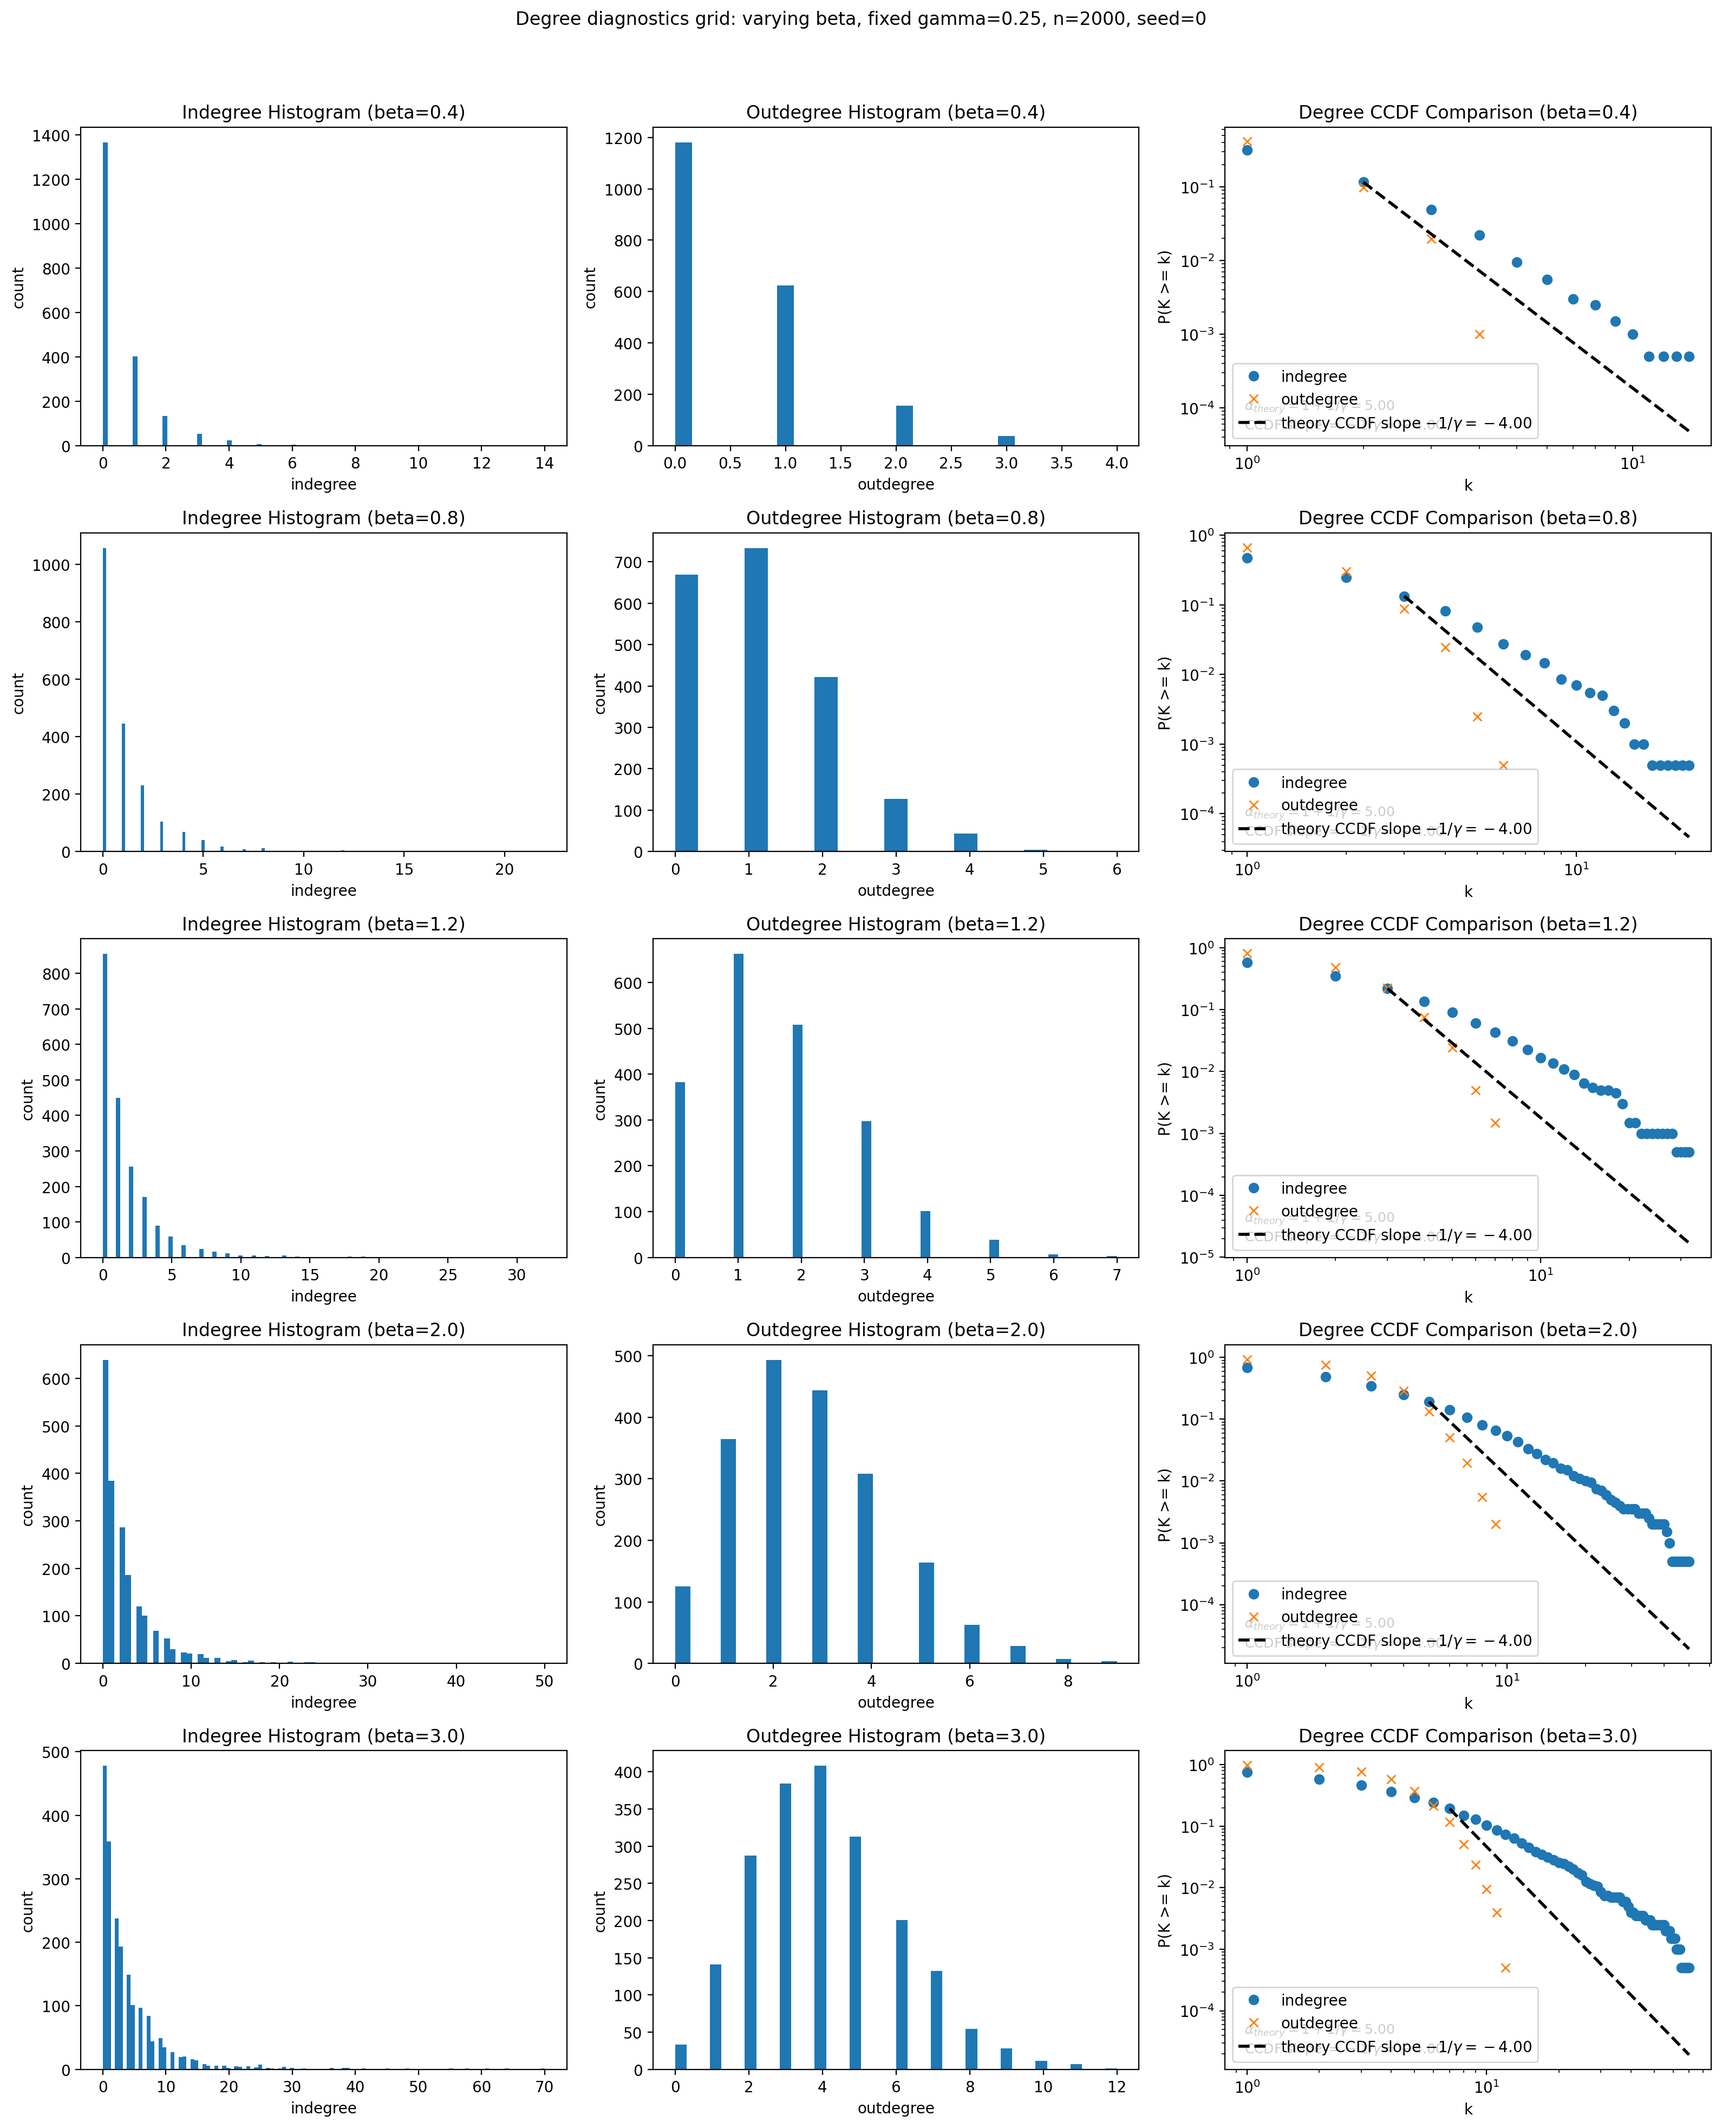
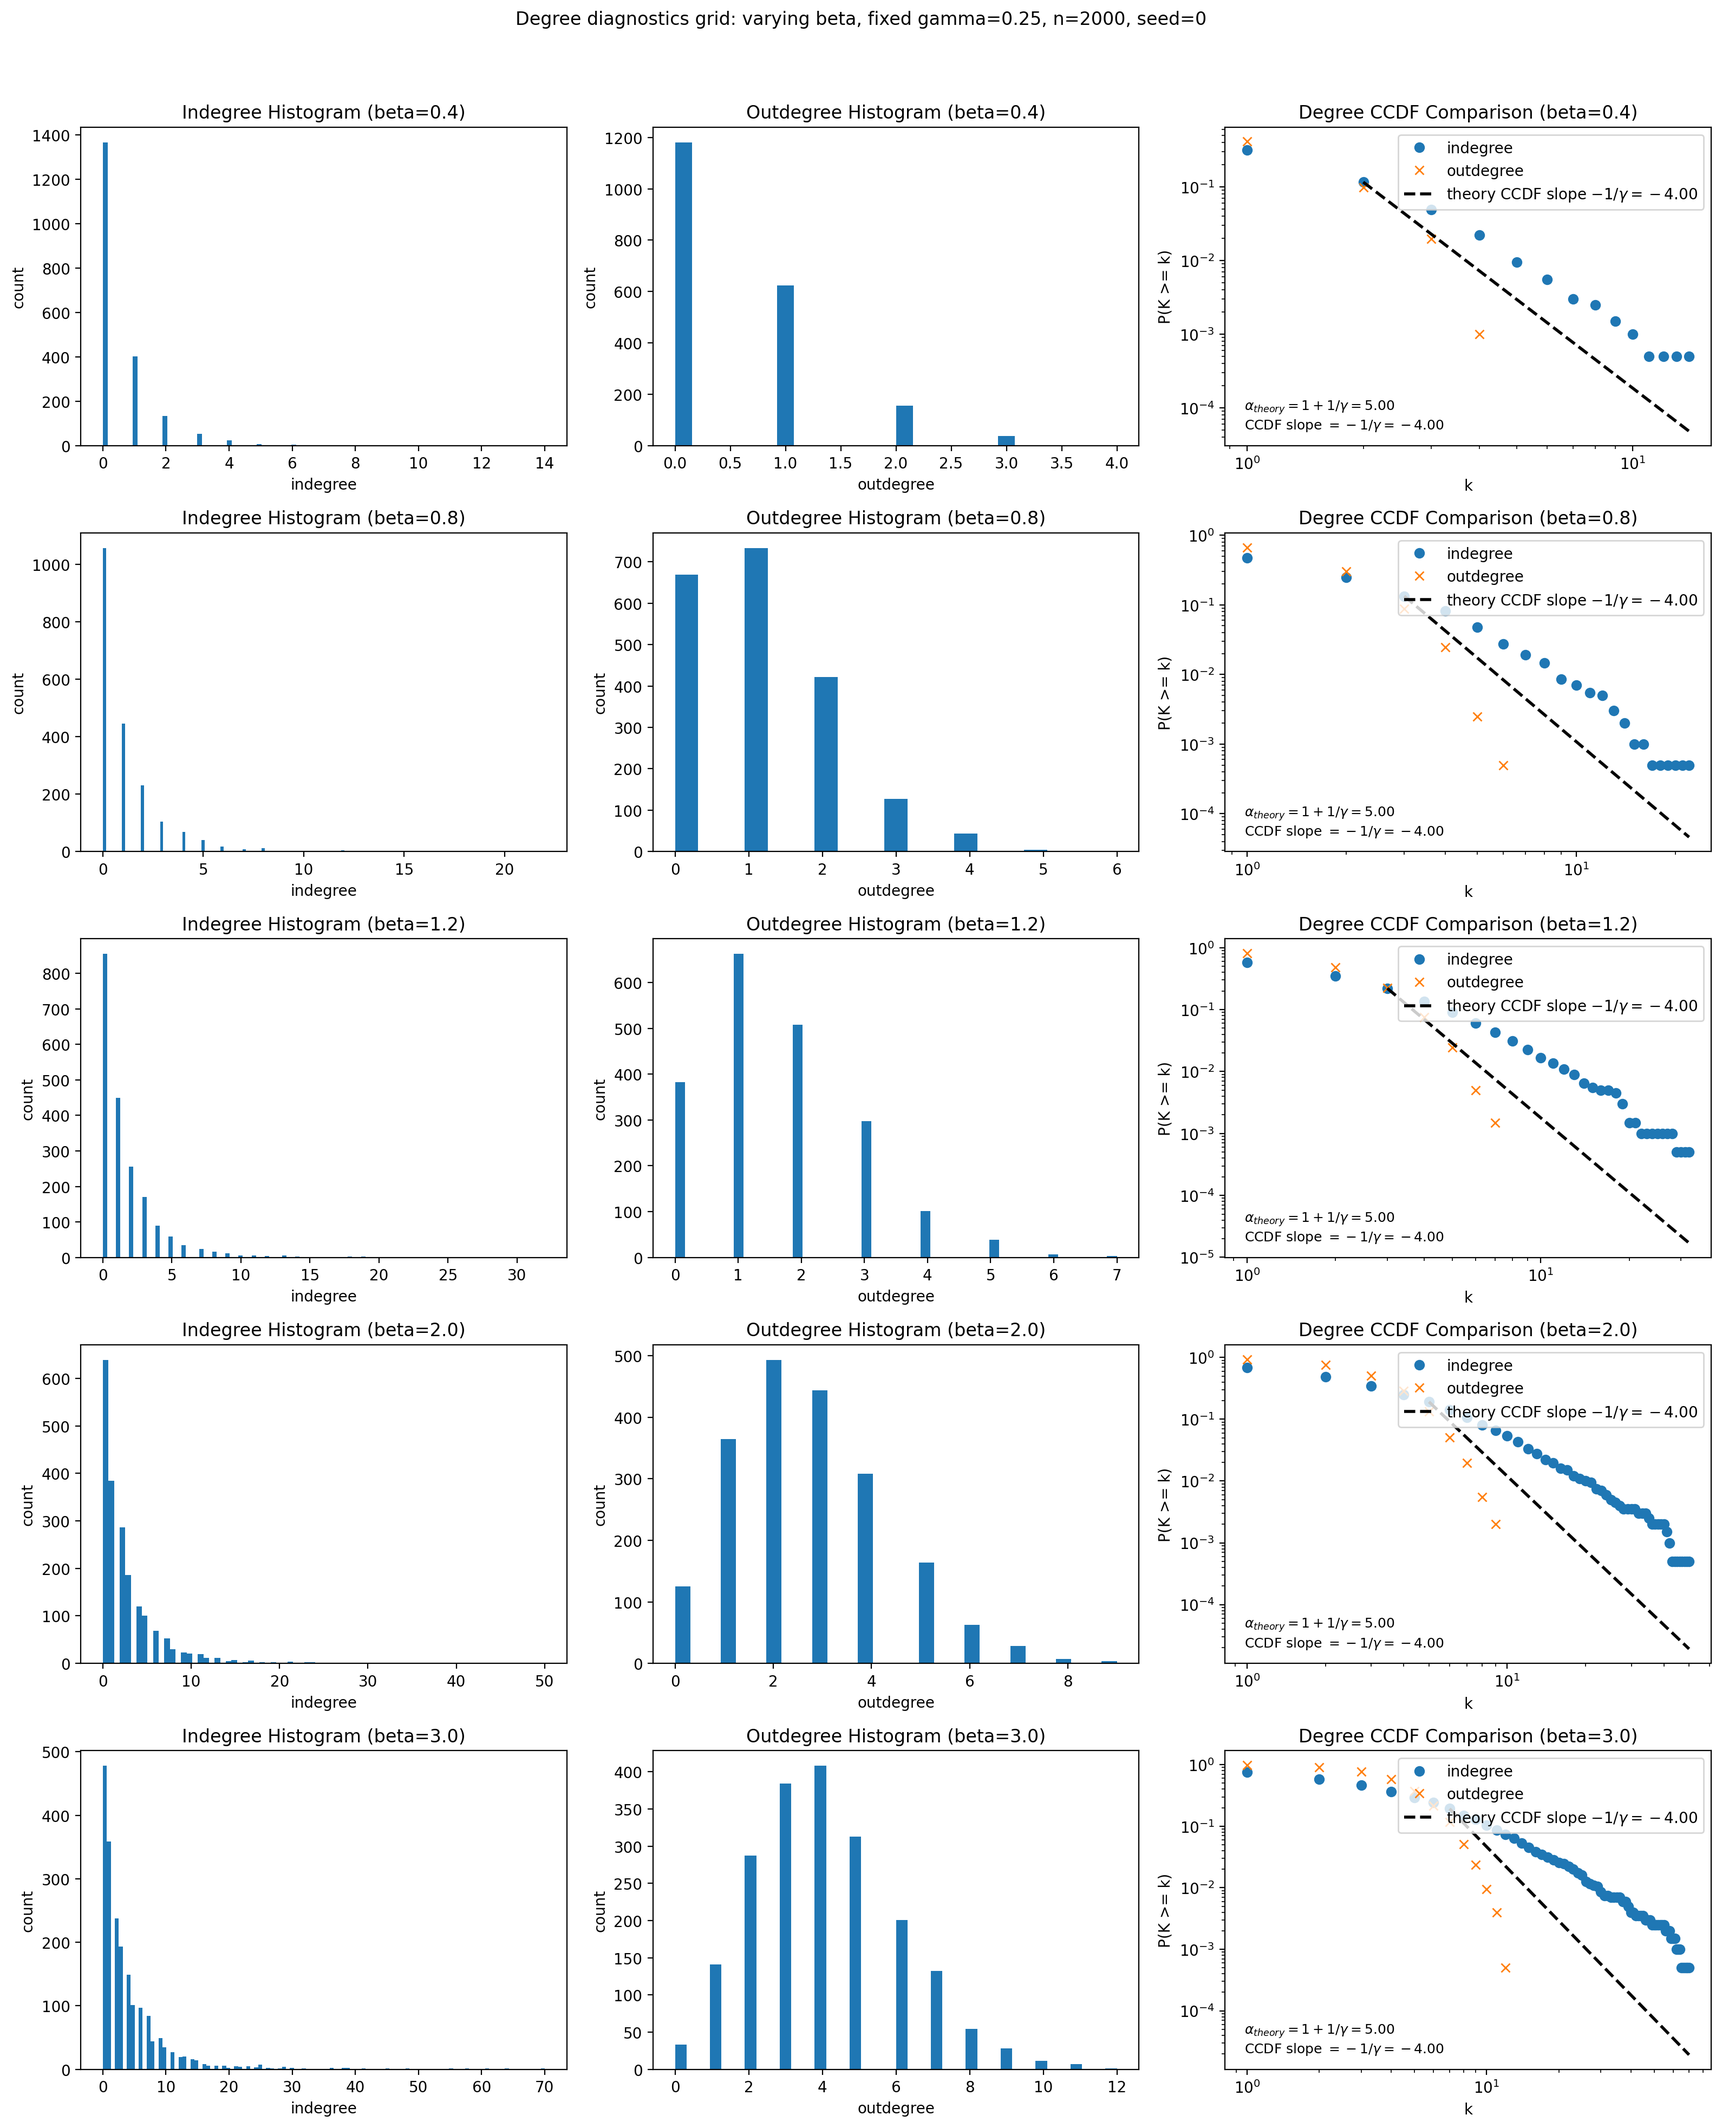
Distribution plots

diff --git a/distributions.py b/distributions.py
@@ -218,7 +218,7 @@ def plot_degree_distributions(params, n, seed=0, bins="auto", show_theory=True):
     axes[2].set_title("Degree CCDF Comparison (log-log)")
     axes[2].set_xlabel("k")
     axes[2].set_ylabel("P(K >= k)")
-    axes[2].legend()
+    axes[2].legend(loc="upper right")
 
     beta = params["beta"]
     gamma = params["gamma"]
@@ -290,7 +290,7 @@ def plot_degree_distributions_grid(param_list, n, seed=0, bins="auto", row_label
         axes[row_idx, 2].set_title(f"Degree CCDF Comparison ({row_label}={label_value})")
         axes[row_idx, 2].set_xlabel("k")
         axes[row_idx, 2].set_ylabel("P(K >= k)")
-        axes[row_idx, 2].legend()
+        axes[row_idx, 2].legend(loc="upper right")
 
     # figure headline including fixed/varying beta/gamma
     beta_values = {params["beta"] for params in param_list}

diff --git a/main.py b/main.py
@@ -179,12 +179,12 @@ if __name__ == "__main__":
 
         # Valid examples:
         # One beta, multiple gamma:
-        # ccdf_beta_values = [0.5]
-        # ccdf_gamma_values = [0.2, 0.4, 0.6, 0.8]
+        ccdf_beta_values = [3.0]
+        ccdf_gamma_values = [0.2, 0.3, 0.4, 0.5, 0.6, 0.7, 0.8, 0.9]
 
         # Or multiple beta, one gamma:
-        ccdf_beta_values = [0.4, 0.8, 1.2, 2.0, 3.0]
-        ccdf_gamma_values = [0.75]
+        # ccdf_beta_values = [0.4, 0.8, 1.2, 2.0, 3.0]
+        # ccdf_gamma_values = [0.75]
 
         # Or one beta, one gamma:
         # ccdf_beta_values = [0.5]
